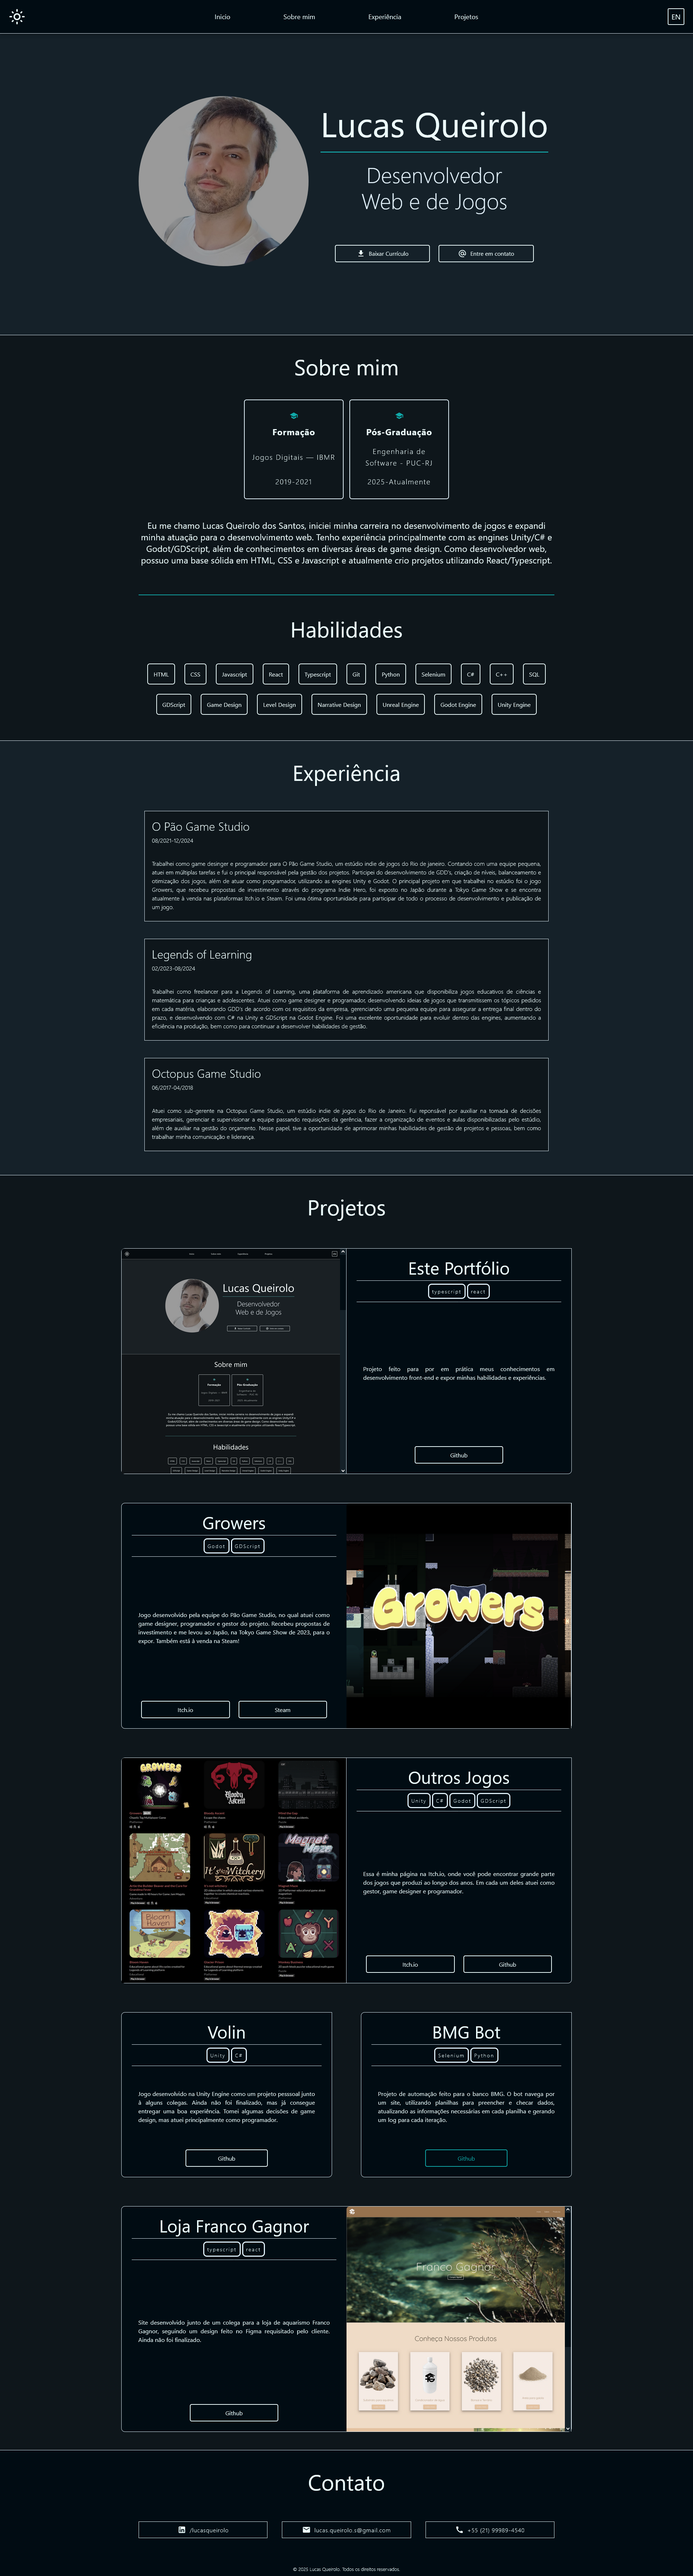
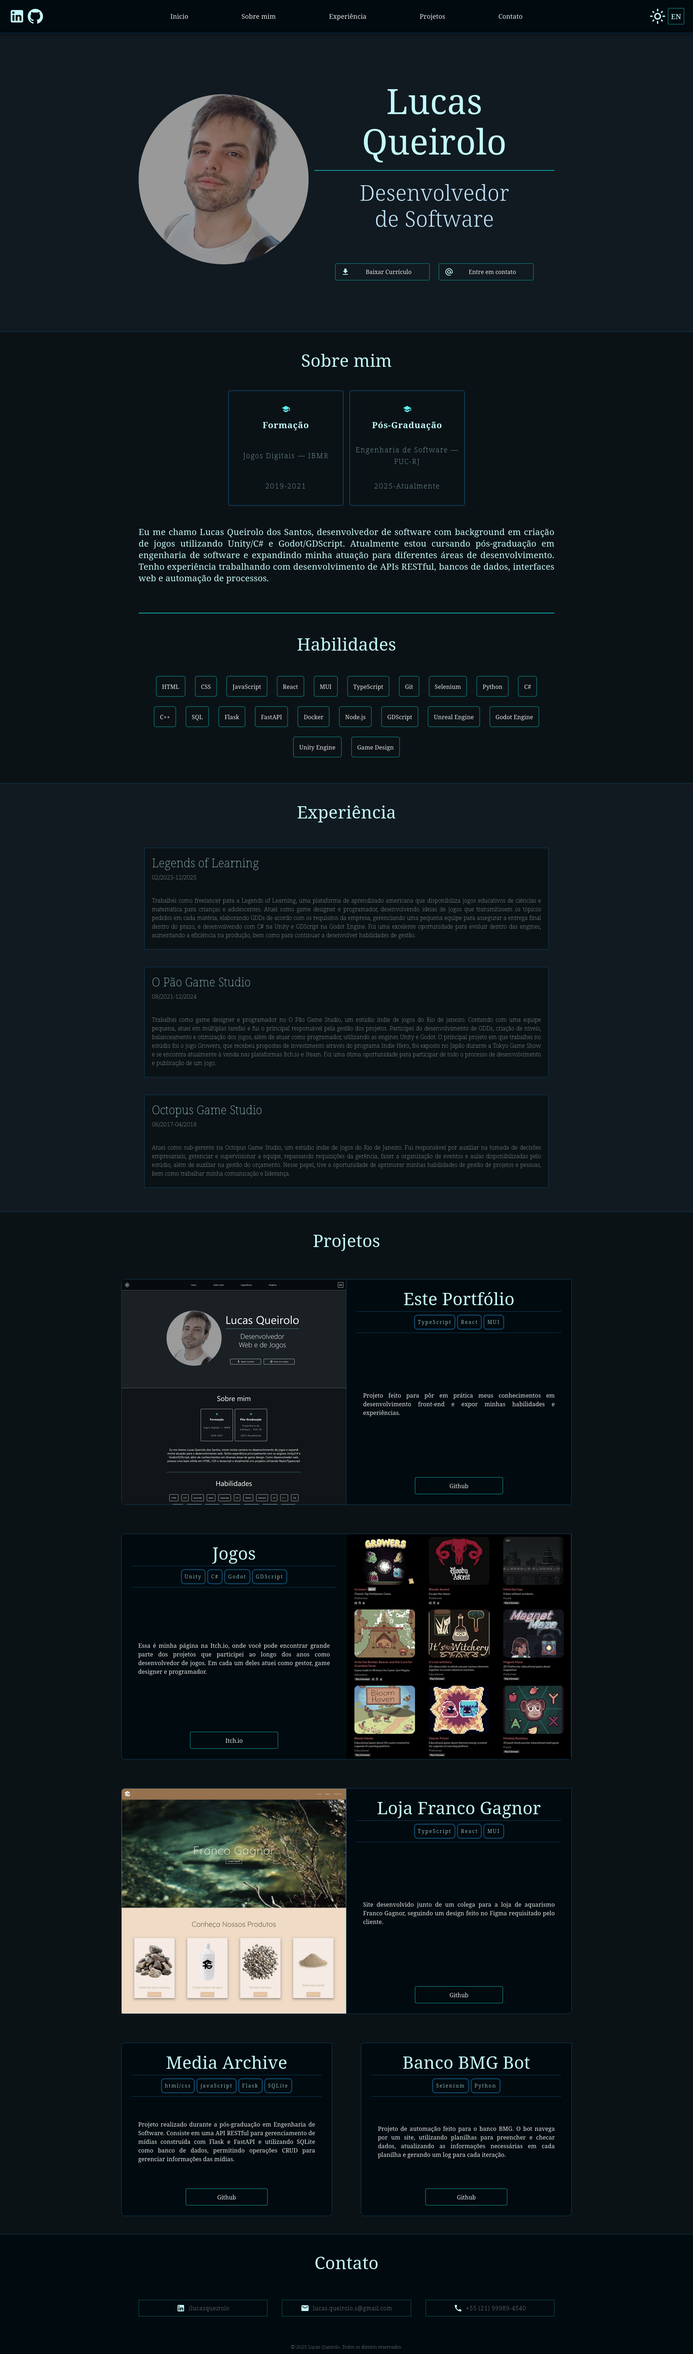
content updates

diff --git a/src/components/Project/AllProjects.tsx b/src/components/Project/AllProjects.tsx
@@ -1,8 +1,7 @@
 import itch from '../../assets/images/itchimg.png'
-import growers from '../../assets/images/growersimg.png'
 import portfolio from '../../assets/images/portfolio.png'
 import francogagnor from '../../assets/images/francogagnor.png'
-
+import mediaarchive from '../../assets/images/mediaarchive.png'
 
 const allProjetcs = [
     {
@@ -14,18 +13,6 @@ const allProjetcs = [
         ],
         techs: ['TypeScript', 'React', 'MUI'],
         site: true
-
-    },
-
-    {
-        name: 'project2Title',
-        description: 'project2Text',
-        image: growers,
-        buttons: [
-            { label: 'itchPage', link: 'https://opaogamestudio.itch.io/growers' },
-            { label: 'steamPage', link: 'https://store.steampowered.com/app/2613940/Growers/' },
-        ],
-        techs: ['Godot', 'GDScript']
     },
 
     {
@@ -34,27 +21,8 @@ const allProjetcs = [
         image: itch,
         buttons: [
             { label: 'itchPage', link: 'https://luxezito.itch.io/' },
-            { label: 'projectsButtonViewCode', link: 'https://github.com/Luxxdev?tab=repositories' },
         ],
         techs: ['Unity', 'C#', 'Godot', "GDScript"],
-    },
-    {
-        name: 'project4Title',
-        description: 'project4Text',
-        image: '',
-        buttons: [
-            { label: 'projectsButtonViewCode', link: 'https://github.com/Luxxdev/Volin' },
-        ],
-        techs: ['Unity', 'C#'],
-    },
-    {
-        name: 'project5Title',
-        description: 'project5Text',
-        image: '',
-        buttons: [
-            { label: 'projectsButtonViewCode', link: 'https://github.com/Luxxdev/exyon-bot' },
-        ],
-        techs: ['Selenium', 'Python'],
     },
 
     {
@@ -68,6 +36,28 @@ const allProjetcs = [
         site: true
 
     },
+    {
+        name: 'project7Title',
+        description: 'project7Text',
+        image: mediaarchive,
+        buttons: [
+            { label: 'projectsButtonViewCodeFront', link: 'https://github.com/Luxxdev/media-archive-front' },
+            { label: 'projectsButtonViewCodeBack', link: 'https://github.com/Luxxdev/media-archive-api' },
+        ],
+        techs: ['html/css', 'javaScript', 'Flask', 'SQLite'],
+        site: true,
+    },
+    {
+        name: 'project5Title',
+        description: 'project5Text',
+        image: '',
+        buttons: [
+            { label: 'projectsButtonViewCode', link: 'https://github.com/Luxxdev/exyon-bot' },
+        ],
+        techs: ['Selenium', 'Python'],
+    },
+
+
 ]
 
 export default allProjetcs

diff --git a/src/components/Project/Project.tsx b/src/components/Project/Project.tsx
@@ -84,11 +84,11 @@ const Project: React.FC<ProjectProps> = ({ name, image, description, buttons = [
           <Grid2 size={12} >
             <TextContainer>
               <Grid2>
-                <Typography color="primary.contrastText" variant="h3" textAlign="center" mt={3} pb={1} >
+                <Typography color="primary.contrastText" variant="h3" textAlign="center" ml={1} mr={1} mt={3} mb={1} pb={1}  >
                   {name}
                 </Typography>
 
-                <Grid2 container display="flex" justifyContent="center" margin={'2vh 3vh'} mt={0} padding={1} rowGap={1} columnGap={0.5} alignItems={'center'} borderTop={1} borderBottom={1} borderColor={"secondary.contrastText"}>
+                <Grid2 container display="flex" justifyContent="center" my={2} mx={3} mt={0} padding={1} rowGap={1} columnGap={0.5} alignItems={'center'} borderTop={1} borderBottom={1} borderColor={"secondary.contrastText"}>
                   {techs?.map(tech => (
                     <Grid2 style={{ display: 'grid', gridTemplateColumns: 'repeat(auto-fit, minmax(20px, 1fr))' }}>
                       <TechTag children={tech} />
@@ -97,11 +97,11 @@ const Project: React.FC<ProjectProps> = ({ name, image, description, buttons = [
                 </Grid2>
               </Grid2>
 
-              <Typography color="primary.contrastText" textAlign={'justify'} maxHeight={'30vh'} overflow={'auto'} alignContent={'center'} padding={'5vh 2vh'} margin={'0vh 3vh'} >
+              <Typography color="primary.contrastText" textAlign={'justify'} maxHeight={290} overflow={'auto'} alignContent={'center'} px={2} py={5} mx={3} my={0} >
                 {description}
               </Typography>
 
-              <Grid2 container size='auto' display="flex" justifyContent="center" spacing={3} mb={'3vh'} mt={3}>
+              <Grid2 container size='auto' display="flex" justifyContent="center" spacing={3} mb={1} mt={3}>
                 {buttons.map((button, index) => (
                   <Grid2 size={5} key={index}>
                     <StyledButton

diff --git a/src/pages/Home/sections/Hero/Hero.tsx b/src/pages/Home/sections/Hero/Hero.tsx
@@ -9,7 +9,6 @@ import StyledButton from '../../../../components/StyledButton/StyledButton'
 // import resumePT from '../../../../assets/curriculos/LucasQueirolo_Curriculo.pdf'
 import { ScrollTo } from '../../../../components/NavBar/NavBar'
 import { useTranslation } from 'react-i18next'
-import { toolbarHeight } from '../../../../components/NavBar/NavBar'
 
 const Hero = () => {
   const { t } = useTranslation()
@@ -17,8 +16,8 @@ const Hero = () => {
   const StyledHero = styled('div')(({ theme }) => ({
     backgroundColor: theme.palette.primary.light,
     display: 'flex',
-    marginTop: `${toolbarHeight}dvh`,
-    minHeight: `calc(100dvh - ${toolbarHeight}dvh)`,
+    marginTop: '90px',
+    minHeight: `calc(100dvh - 90px)`,
     alignItems: 'center',
     paddingBottom: '50px',
     width: '100%',

diff --git a/src/pages/Home/sections/About/About.tsx b/src/pages/Home/sections/About/About.tsx
@@ -3,7 +3,7 @@ import SkillsTag from '../../../../components/SkillsTag/SkillsTag'
 import SchoolIcon from '@mui/icons-material/School'
 import { useTranslation } from 'react-i18next'
 
-const skills = ["HTML", "CSS", "JavaScript", "React", "TypeScript", "Git", "Python", "Selenium", "C#", 'C++', 'SQL', 'GDScript', 'Game Design', 'Level Design', "Narrative Design", 'Unreal Engine', 'Godot Engine', 'Unity Engine',]
+const skills = ["HTML", "CSS", "JavaScript", "React", 'MUI', "TypeScript", "Git", "Selenium", "Python", "C#", 'C++', 'SQL', 'Flask', 'FastAPI', 'Docker', 'Node.js', 'GDScript', 'Unreal Engine', 'Godot Engine', 'Unity Engine', 'Game Design']
 
 const About = () => {
 

diff --git a/src/components/NavBar/NavBar.tsx b/src/components/NavBar/NavBar.tsx
@@ -13,10 +13,10 @@ export const toolbarHeight = 10
 
 const StyledMobileMenu = styled(Modal)(({ }) => ({
   backdropFilter: 'blur(15px)',
-  top: `${toolbarHeight}dvh`,
+  top: `90px`,
   display: 'flex',
   justifyContent: 'space-between',
-  height: `calc(100dvh - ${toolbarHeight}dvh)`,
+  height: `calc(100vh - 90px)`,
   width: '100dvw',
   position: 'fixed',
   overflow: 'hidden',
@@ -57,7 +57,7 @@ const NavBar = () => {
 
   const StyledToolbar = styled(Toolbar)(({ theme }) => ({
     justifyContent: 'space-between',
-    height: `${toolbarHeight}dvh`,
+    height: '90px',
     padding: 24,
     backgroundColor: theme.palette.primary.dark,
     overflow: 'hidden',

diff --git a/src/components/Experience/AllExperiences.tsx b/src/components/Experience/AllExperiences.tsx
@@ -1,14 +1,13 @@
 const allExperiences = [
     {
+        name: 'experience2Title',
+        date: '02/2023-12/2025',
+        description: 'experience2Text',
+    },
+    {
         name: 'experience1Title',
         date: '08/2021-12/2024',
         description: 'experience1Text',
-    },
-
-    {
-        name: 'experience2Title',
-        date: '02/2023-08/2024',
-        description: 'experience2Text',
     },
     {
         name: 'experience3Title',

diff --git a/src/pages/Home/sections/Projects/Projects.tsx b/src/pages/Home/sections/Projects/Projects.tsx
@@ -26,7 +26,7 @@ const Projects = () => {
           {t('projectsTitle')}
         </Typography>
 
-        <Grid2 container spacing={10} width={{ md: '65vw', sm: '80vw', xs: '80vw' }} >
+        <Grid2 container spacing={10} width={{ md: '65vw', sm: '80vw', xs: '80vw' }} justifyContent={'center'}>
           {allProjetcs.map((project, index) => (
             <Project
               name={t(project.name)}

diff --git a/src/components/LanguageSwitcher/LanguageSwitcher.tsx b/src/components/LanguageSwitcher/LanguageSwitcher.tsx
@@ -10,7 +10,7 @@ export const LanguageSwitcher = () => {
     backgroundColor: 'transparent',
     border: `2px solid ${theme.palette.primary.contrastText}`,
     borderRadius: '3px',
-    height: '5vh',
+    height: '50px',
     color: theme.palette.primary.contrastText,
     display: 'flex',
     aspectRatio: 1 / 1,

diff --git a/src/pages/Home/sections/Footer/Footer.tsx b/src/pages/Home/sections/Footer/Footer.tsx
@@ -26,7 +26,7 @@ const Footer = () => {
     textDecoration: 'none',
     justifyContent: 'center',
     alignItems: 'center',
-    height: '5vh',
+    height: '50px',
     border: `1px solid ${theme.palette.primary.contrastText}`,
     borderColor: theme.palette.primary.contrastText,
     '&:hover': {

diff --git a/src/components/DarkModeToggle/DarkModeToggle.tsx b/src/components/DarkModeToggle/DarkModeToggle.tsx
@@ -9,7 +9,7 @@ export const StyledA = styled('a')(({ theme }) => ({
   textDecoration: 'none',
   alignItems: 'center',
   position: 'relative',
-  fontSize: '5vh',
+  fontSize: '50px',
   // [theme.breakpoints.up('md')]: {
   //   position: 'absolute',
   //   top: '2.5vh',
